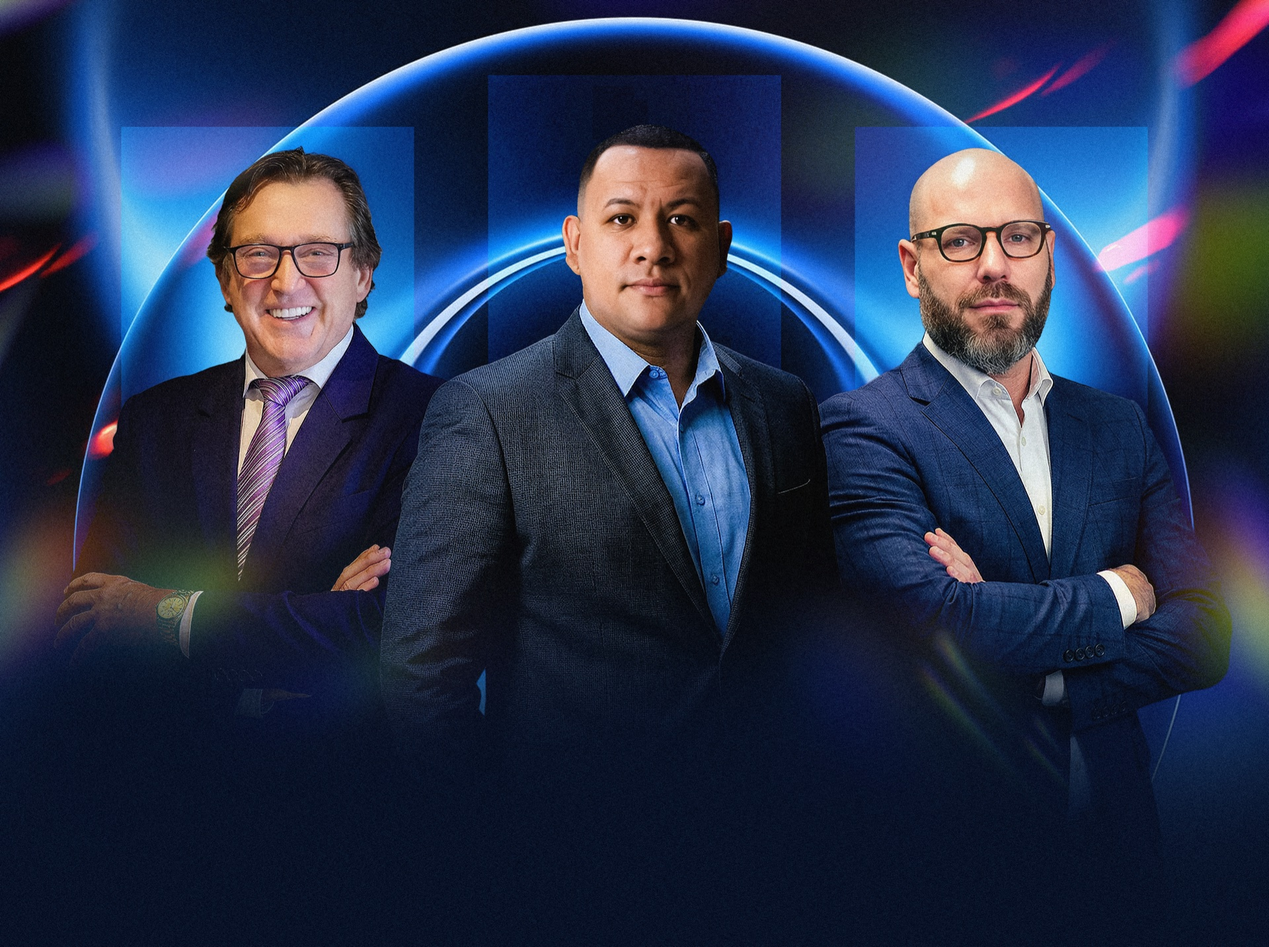
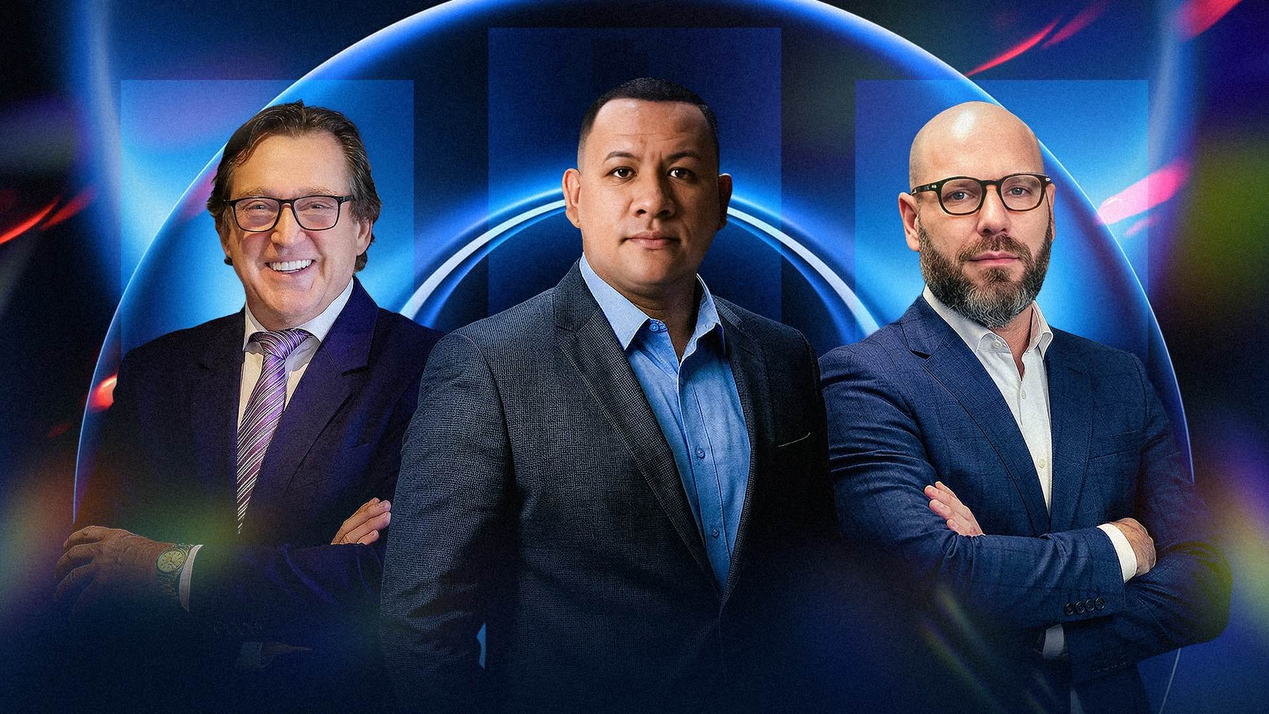
feat: nova imagem hero 1920x1080 + hero responsivo sem corte + programação atualizada
- Substitui hero-speakers.jpg pela nova imagem 1920x1080 (274KB)
- Hero usa <img> como driver de layout: escala sem cortar em qualquer largura
- Desktop: conteúdo absolutamente centralizado sobre a imagem
- Mobile: imagem no topo + conteúdo abaixo em fluxo normal
- Remove min-height: 100vh — sem espaço morto entre hero e próxima seção
- Programação: novos horários, credenciamento, Paulo Minuzzi como 4º palestrante

diff --git a/src/app/components/Schedule.tsx b/src/app/components/Schedule.tsx
@@ -3,38 +3,52 @@ import { useEffect, useRef } from 'react';
 const schedule = [
   {
     time: '14h00',
+    speaker: '',
+    tag: 'Abertura',
+    title: 'Credenciamento',
+    desc: 'Recepção e credenciamento dos participantes. Retirada do kit do evento e coffee de boas-vindas.',
+  },
+  {
+    time: '14h30',
     speaker: 'LUIZ MAZANEK',
     tag: 'Palestra',
     title: 'Liderança na Nova Economia',
-    desc: 'O mercado mudou e o empresário que não lidera, reage. Luiz Mazanek fala sobre o que o mercado exige do líder hoje, como construir times que funcionam sem depender de você e como tomar decisões melhores em cenário de mudança.',
+    desc: 'O mercado mudou e o empresário que não lidera, reage. Luiz Mazanek fala sobre o que o mercado exige do líder hoje, como construir times de alta performance que funcionam sem depender de você e como tomar decisões melhores em cenário de constante transformação.',
   },
   {
-    time: '15h45',
+    time: '15h30',
     speaker: 'JACKSON SANTOS',
     tag: 'Palestra',
     title: 'Reforma Tributária na Prática',
     desc: 'A maior mudança fiscal dos últimos 30 anos já está em vigor. Jackson Santos traduz a legislação em decisões concretas: o que muda no seu enquadramento, nos seus créditos tributários e no preço que você cobra a partir de agora.',
   },
   {
-    time: '16h45',
+    time: '16h30',
     speaker: '',
     tag: 'Intervalo',
     title: 'Coffee Break e Networking',
-    desc: 'Espaço para conexões entre empresários, contadores, advogados e gestores presentes no evento.',
+    desc: 'Espaço para conexões entre empresários, contadores, advogados e gestores. Troque experiências e construa relações que vão além do evento.',
   },
   {
-    time: '17h15',
+    time: '17h00',
     speaker: 'ALAN ORDAKOVSKI',
     tag: 'Palestra',
     title: 'Proteção Jurídica para o Seu Negócio',
-    desc: 'Contratos PJ, NR1 e os impactos jurídicos da reforma tributária nas relações de trabalho. Alan Ordakovski mostra os riscos que a maioria dos empresários carrega sem saber e o que fazer antes que virem problema.',
+    desc: 'Contratos PJ, NR1 e os impactos jurídicos da reforma tributária nas relações de trabalho. Alan Ordakovski mostra os riscos que a maioria dos empresários carrega sem saber — e o que fazer antes que se tornem passivo.',
   },
   {
-    time: '18h30',
+    time: '18h00',
+    speaker: 'PAULO MINUZZI',
+    tag: 'Palestra',
+    title: 'Como se Adaptar à Reforma Tributária Sem Parar sua Operação',
+    desc: 'A última palestra do Summit une estratégia e execução. Paulo Minuzzi apresenta um roteiro prático para implementar as mudanças exigidas pela reforma sem travar o dia a dia da empresa — adaptando processos, precificação e estrutura sem perder competitividade nem margem.',
+  },
+  {
+    time: '18h50',
     speaker: '',
     tag: 'Encerramento',
-    title: 'Encerramento',
-    desc: 'Certificados e encerramento oficial.',
+    title: 'Encerramento e Certificados',
+    desc: 'Entrega de certificados de participação e encerramento oficial do Summit Empresarial 360.',
   },
 ];
 

diff --git a/src/styles/summit.css b/src/styles/summit.css
@@ -321,62 +321,36 @@ body {
 /* ===== HERO ===== */
 .hero {
   position: relative;
-  min-height: 100vh;
-  display: flex;
-  align-items: center;
-  justify-content: center;
   overflow: hidden;
 }
 
-.hero-bg-image {
-  position: absolute;
-  inset: 0;
-  background-image: url(/hero-speakers.jpg);
-  background-size: cover;
-  background-position: center top;
-  background-repeat: no-repeat;
-  opacity: 0.45;
-  pointer-events: none;
+.hero-image {
+  display: block;
+  width: 100%;
+  height: auto;
+  filter: brightness(0.6);
+  position: relative;
   z-index: 0;
-}
-
-/* Imagem mobile (visível só em mobile) */
-.hero-mobile-image {
-  display: none;
 }
 
 @media (max-width: 768px) {
   .hero {
+    display: flex;
     flex-direction: column;
-    align-items: center;
-    justify-content: flex-start;
-    min-height: auto;
     padding-top: 64px;
   }
 
-  .hero-bg-desktop {
-    display: none;
-  }
-
-  .hero-mobile-image {
-    display: block;
-    width: 100%;
-    height: auto;
-    position: relative;
-    z-index: 1;
-    flex-shrink: 0;
-  }
-
   .hero-content {
-    position: relative;
-    z-index: 2;
-    text-align: center;
+    position: relative !important;
+    top: auto !important;
+    left: auto !important;
+    transform: none !important;
     padding: 40px 24px 60px;
-    width: 100%;
-    max-width: 100%;
     display: flex;
     flex-direction: column;
     align-items: center;
+    max-width: 100%;
+    text-align: center;
   }
 }
 
@@ -402,10 +376,13 @@ body {
 }
 
 .hero-content {
-  position: relative;
+  position: absolute;
+  top: 50%;
+  left: 50%;
+  transform: translate(-50%, -50%);
   z-index: 2;
   text-align: center;
-  padding: 120px 24px 80px;
+  padding: 24px;
   max-width: 820px;
   width: 100%;
 }
